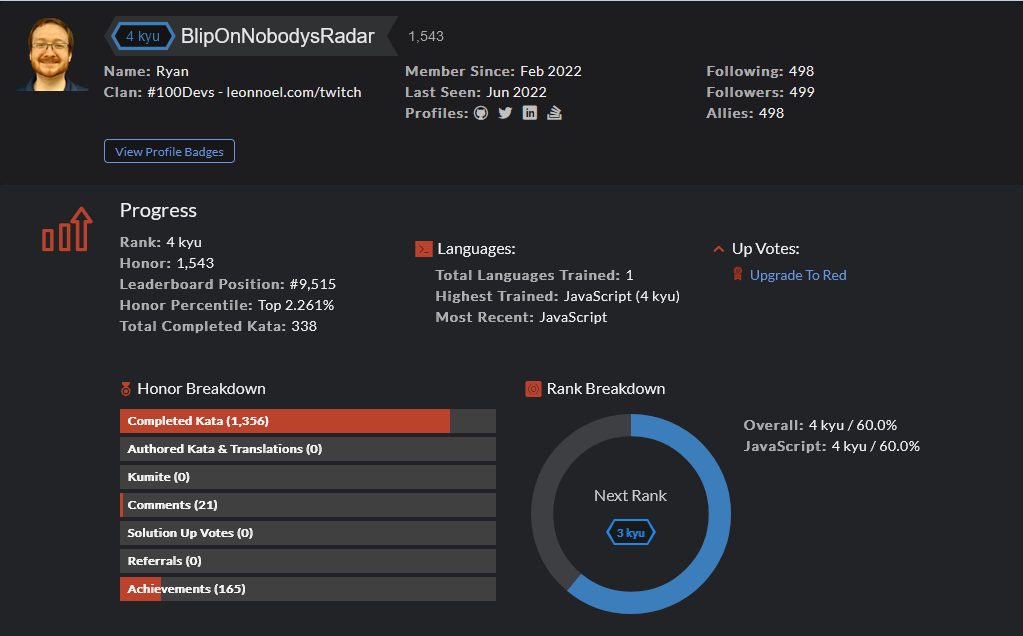
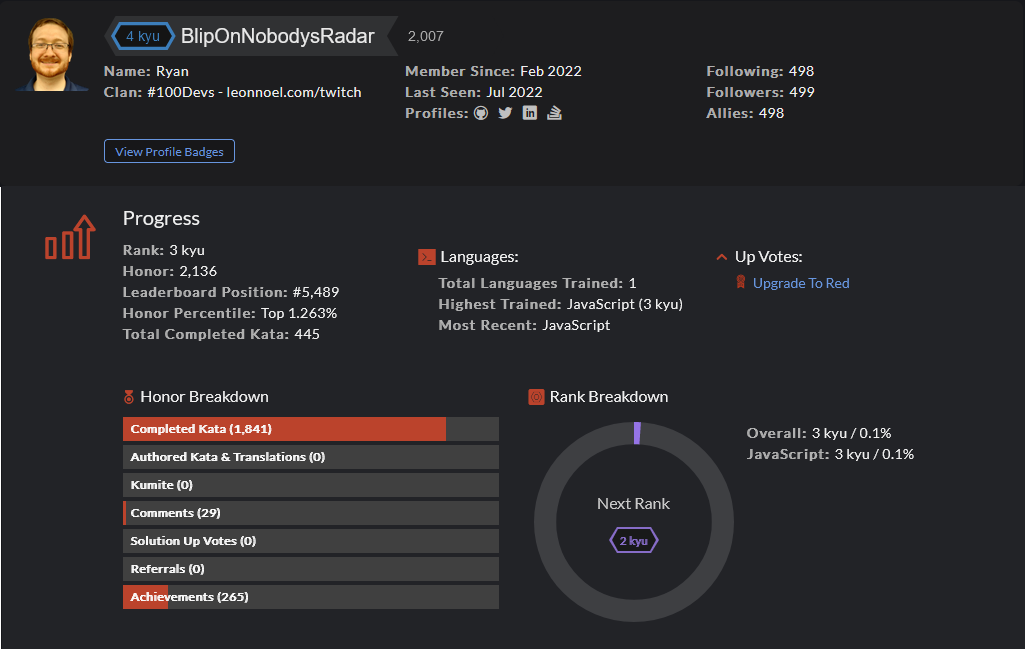
readme and screenshot update

diff --git a/readme.md b/readme.md
@@ -1,7 +1,7 @@
 # CodeWars Challenges: <a target="_blank" href="https://www.codewars.com/users/BlipOnNobodysRadar" >Visit Here</a>
 
 ![codewars profile picture](codewars-pf.png)
-A repository filled with codewars challenges (kata). I'm currently in the top 2% of users with 338+ kata completed, and push atleast one solution every day.
+A repository filled with codewars challenges (kata). I'm currently in the top 1.4% of users with 445+ kata completed, and push atleast one solution every day.
 
 ## How It's Made:
 
